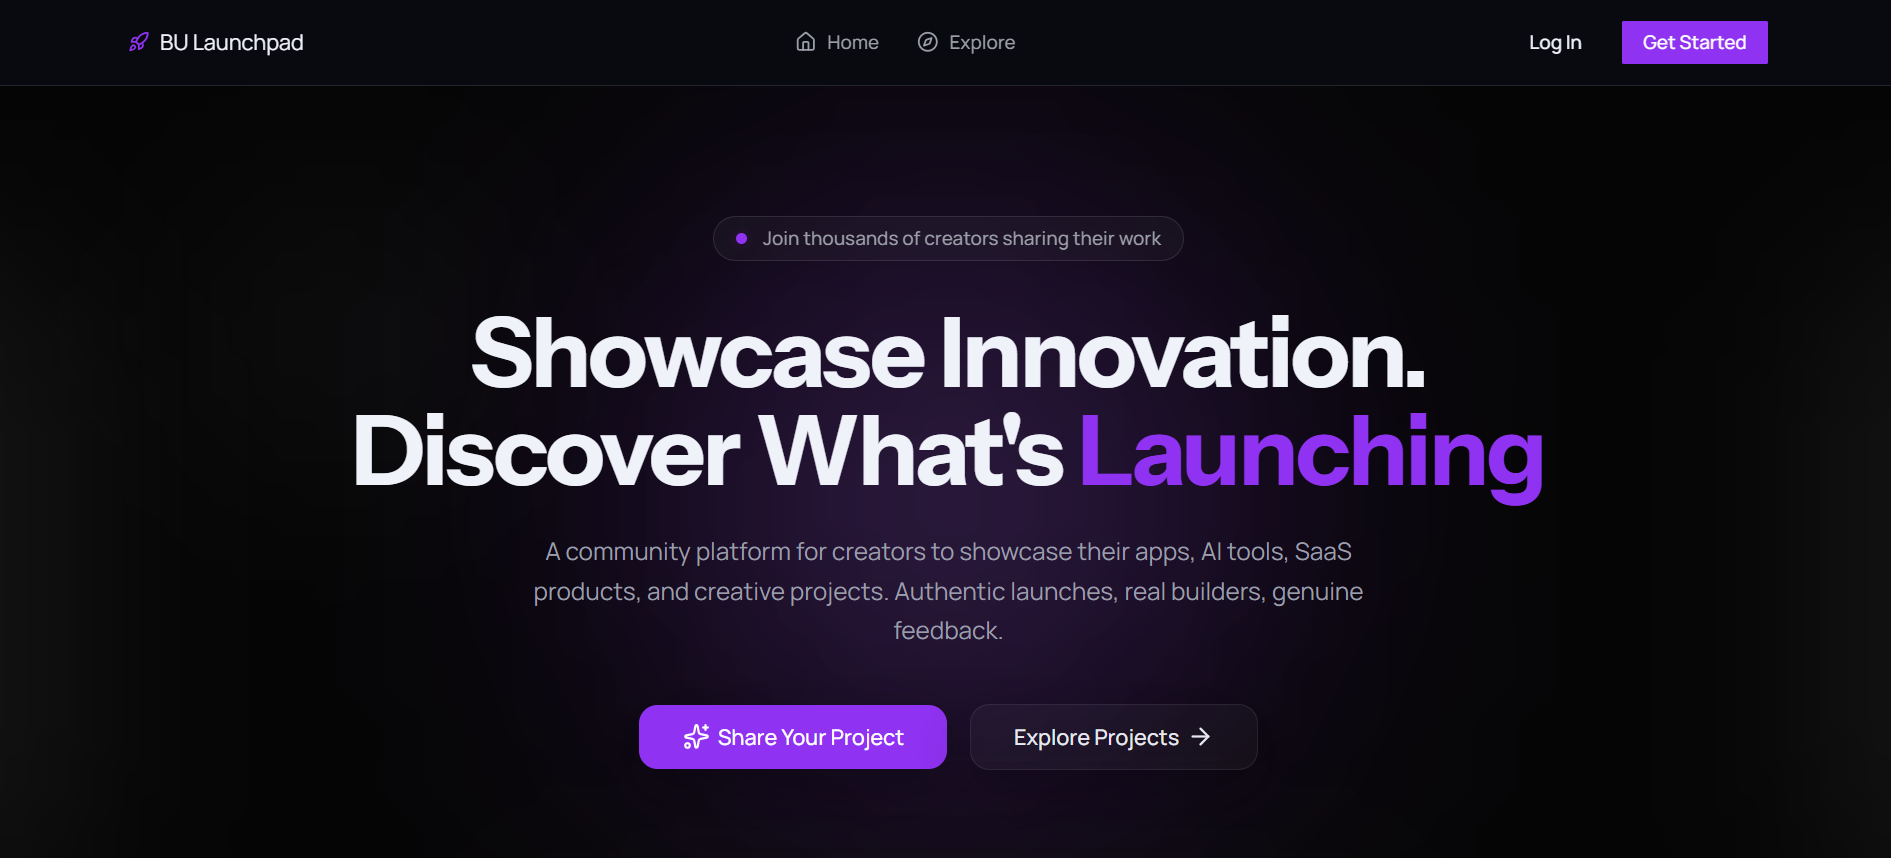
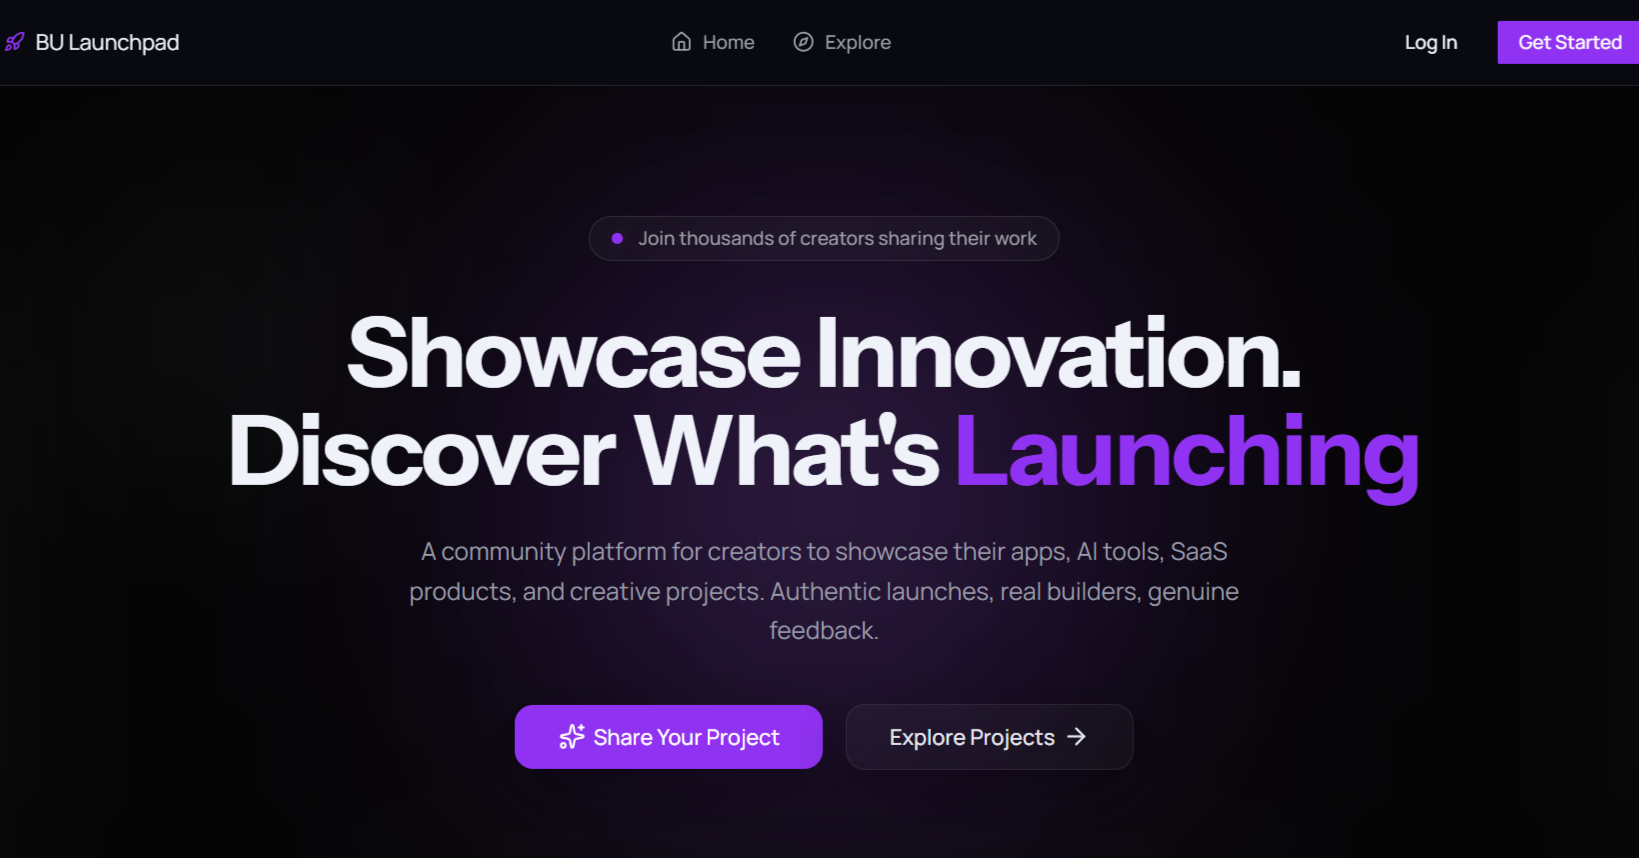
fix: fixed the OpenGraph image.url and cropped previous image to match LinkedIn dimension requirement

diff --git a/src/app/layout.tsx b/src/app/layout.tsx
@@ -37,8 +37,8 @@ export const metadata: Metadata = {
       "Built by students.\nPowered by ideas.\nShowcase your projects, discover what others are building, turn your innovation into something visible.",
     images: [
       {
-        url: "https://dannysdomain.vercel.app/og/image.png",
-        width: 1891,
+        url: "https://bu-launchpad.vercel.app/og/image.png",
+        width: 1639,
         height: 858
       }
     ]
